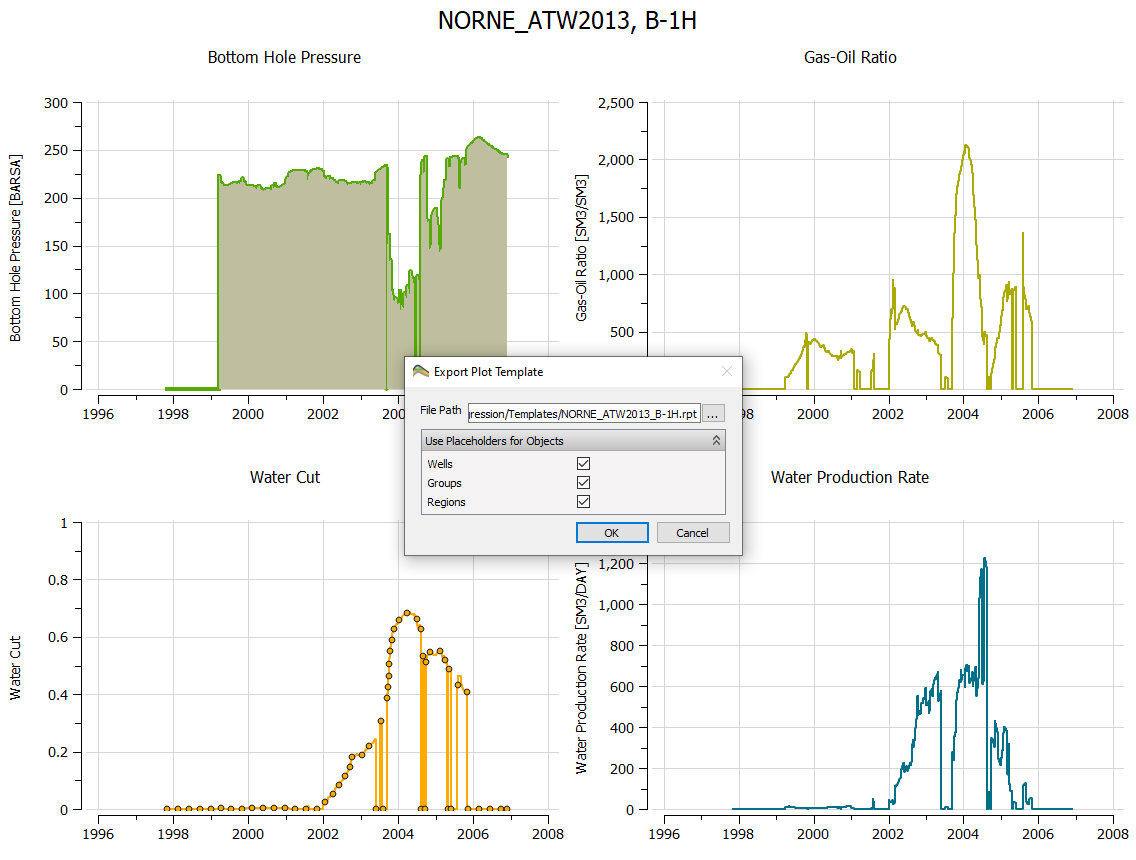
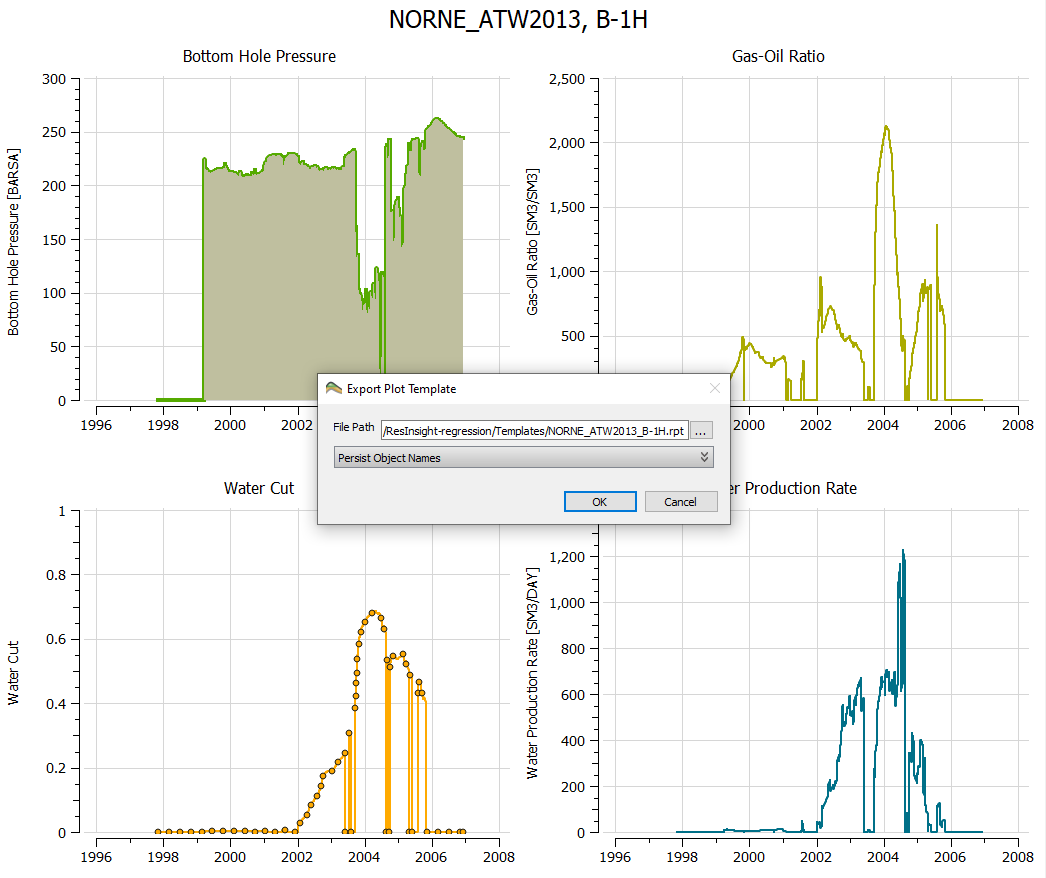
Update Summary Plot Template

diff --git a/content/plot-window/SummaryPlotTemplate.md b/content/plot-window/SummaryPlotTemplate.md
@@ -8,28 +8,34 @@ weight = 45
 
 
 ## Template creation
-A summary plot template is defined by a number of curves with preset appearance and vector names. 
-The parameters that are selected or varied by the user are:
-
-- case(s)
-- item(s), i.e. well(s), group(s), region(s)
-
-Having tailored a plot setup, the user can save the setup as a template for later reuse via the **Plots** window right-click command **Save As Plot Template**.  
+A summary plot template is defined by a number of subplots and curves with preset appearance and vector names. 
+Having tailored a plot setup, the user can save the setup as a template for later reuse via the **Plots** window right-click command **Save As Plot Template** which pops the **Export Plot Template** dialog seen above.
 
 ![]({{< relref "" >}}images/plot-window/SummaryPlotTemplateSave.png)
 
+A Summary Plot Template can subsequently be used for summary plotting of various data sources. The data sources that can be selected and varied by the user are:
+
+- case(s), ensemble(s), and realization(s)
+- well(s), group(s), and region(s)
+
+When saving a Summary Plot Template, ResInsight by default incorporates placeholders for using the template in conjuction with various wells, groups, and regions. 
+On the other hand, expand and check the appropriate boxes if you want to persist wells, groups, and/or regions.
+To exemplify, checking *Wells* for persistence enables plotting of data for the exact wells of the template in conjuction with any ensemble realization.
+
+![]({{< relref "" >}}images/plot-window/SummaryPlotTemplateSavePersistentObjectNames.png)
+
+Each summary plot template is stored in a single file on disk. ResInsight searches a set of directories for template files which are listed and managed by [**Plotting Preferences**]({{< relref "preferences#plotting" >}}). 
 Given a new path, ResInsight will ask the user to confirm whether the path of the stored template is to be included in subsequent searches for templates. 
 
 ![]({{< relref "" >}}images/plot-window/SummaryPlotTemplatePath.png)
 
-Each summary plot template is stored in a single file on disk. ResInsight searches a set of directories for template files which can be managed by [**Plotting Preferences**]({{< relref "preferences#plotting" >}}).
 
 ## Template usage
-Right-clicking in **Data Sources** and clicking **Create Summary Plot from Template** will list available summary plot templates for selection. This will create a summary plot according to the selected template.
+Right-clicking in **Data Sources** and clicking **Create Summary Plot from Template** will list available summary plot templates for selection. To reapply the previously used template, invoke **Create Plot from Last Used Template** or simply press **Ctrl-T**. Both approaces create a summary plot according to template.
 
 ![]({{< relref "" >}}images/plot-window/SummaryPlotTemplateUsage.png)
 
 
 {{% notice note %}}
-Previously made summary templates are incompatible with ResInsight 2022 due to extended functionality. Please load summary plots of previous versions via project files or re-establish the plots prior to saving templates with ResInsight 2022.
+Summary templates made with prior versions are incompatible with ResInsight 2022 due to significant extensions of functionality. Please load summary plots of prior versions via project files or re-establish plots prior to saving templates with ResInsight 2022.
 {{% /notice %}}

diff --git a/content/plot-window/SummaryPlotDataSources.md b/content/plot-window/SummaryPlotDataSources.md
@@ -49,5 +49,7 @@ Right-clicking a specific *Summary Case* in **Data Sources** displays the functi
 ![]({{< relref "" >}}images/plot-window/DataSourcesSummaryCaseSingle.png)
 
 The highlighted menu item, right-clicking a summary case in **Data Sources** and select *Replace* will redisplay all configured plots with data from another case.
+
 Please also note the menu options concerning creation of 
-[Summary Plot Template]({{< relref "summaryplottemplate" >}})
+[Summary Plot Template]({{< relref "summaryplottemplate" >}}) which is a powerful and effective way to create summary plots of a specific appearance and content. When invoking a well-specific template on Summary Case level as shown above, the convention is that ResInsight selects the first well listed under {{< image-in-text src="images/plot-window/DataSourcesWell.png" >}} as data source.
+
